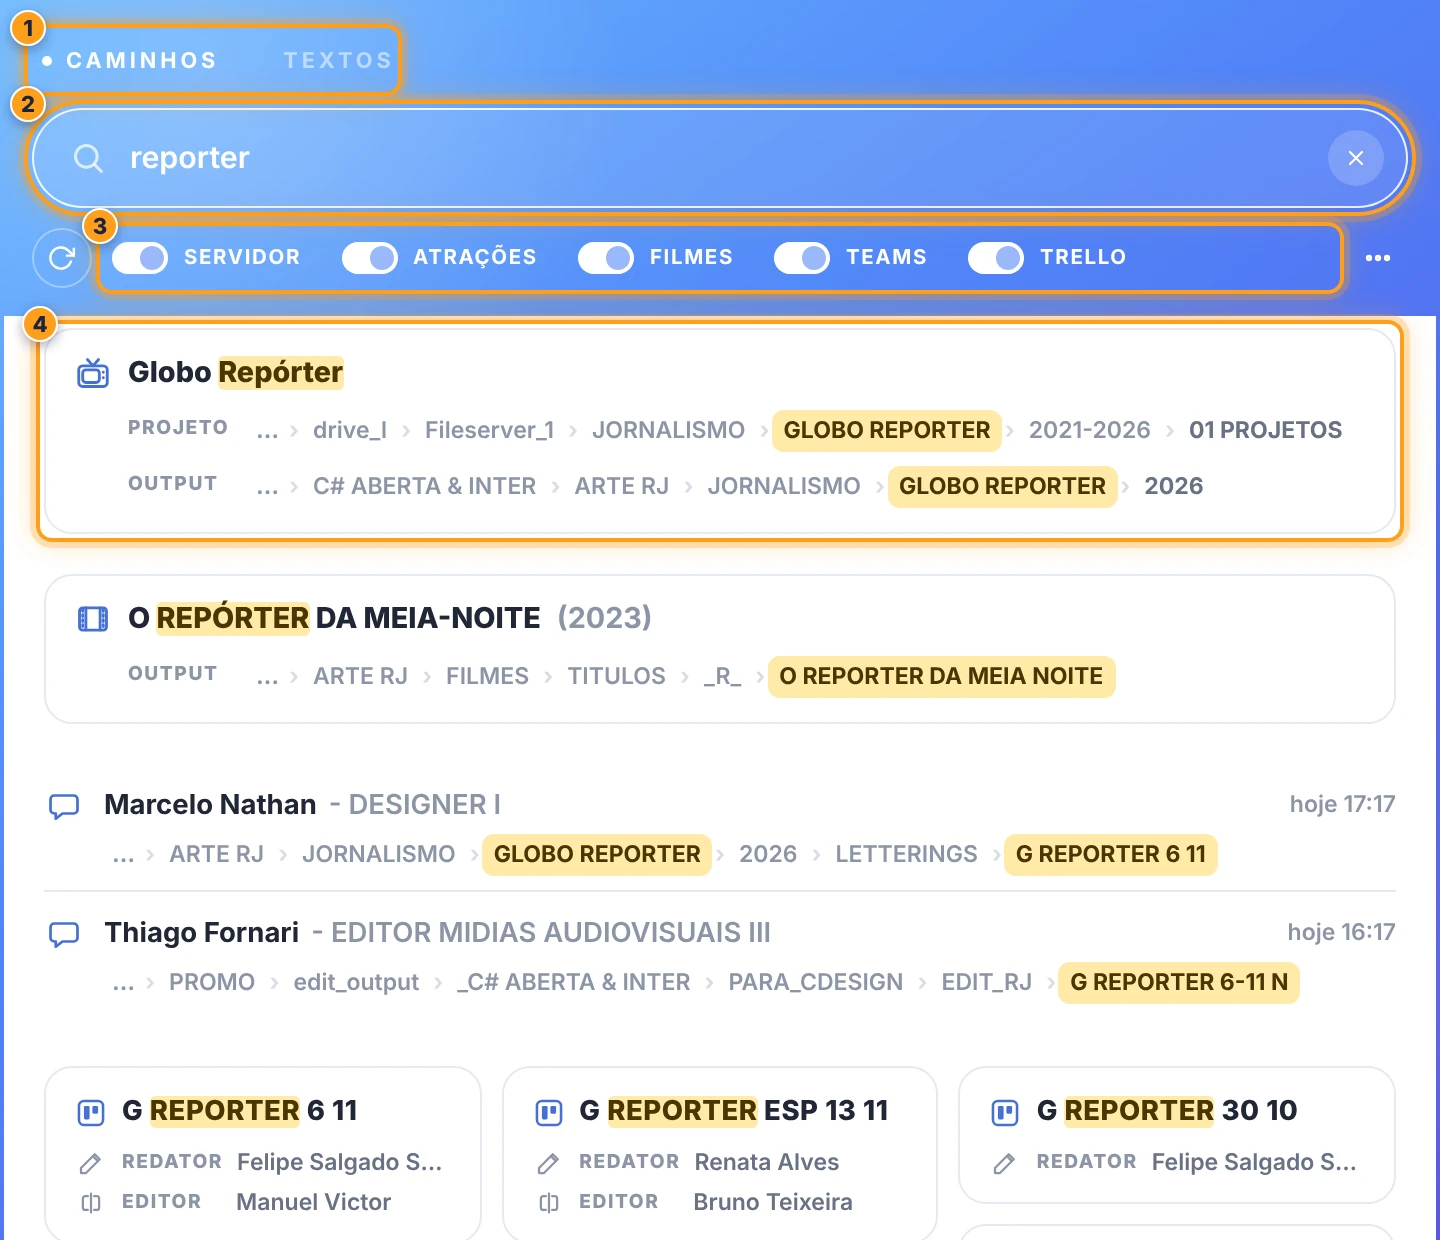
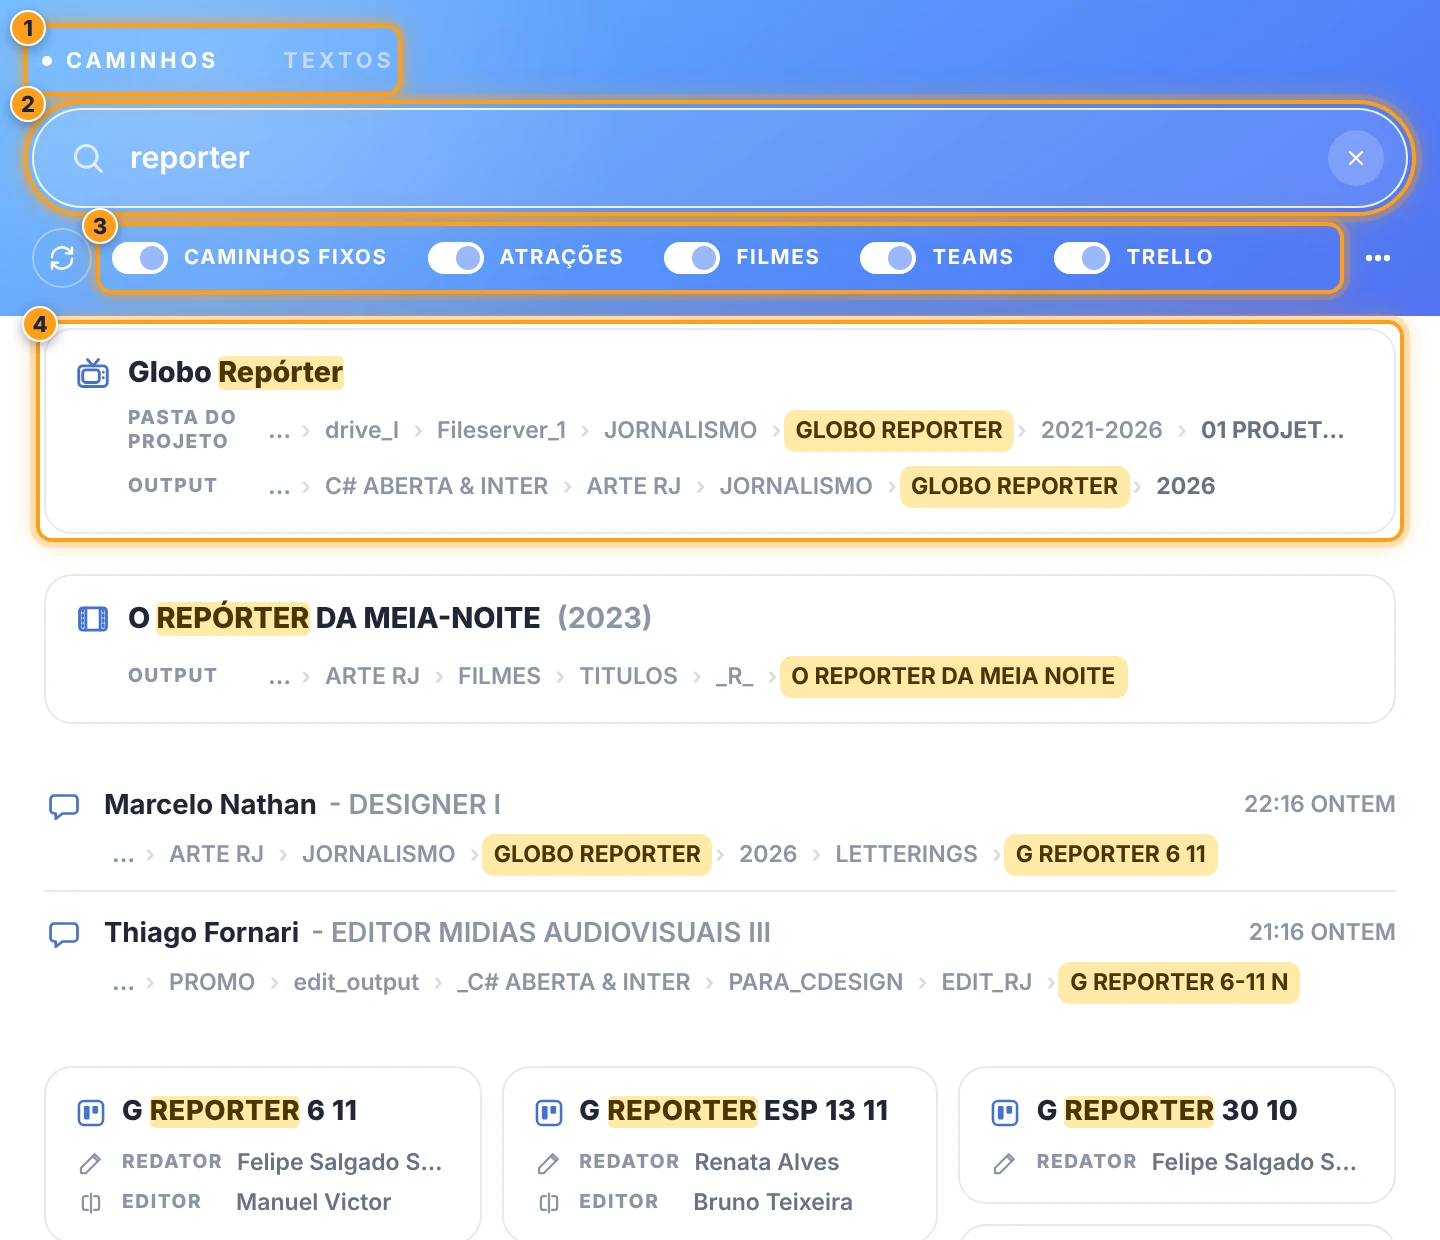
docs: a busca de caminhos como ela é (fontes, caminhos fixos, modo local)
acessorista.md: fontes no lugar de categorias, CAMINHOS FIXOS e PASTA DO
PROJETO, quantos resultados cada fonte mostra (os caminhos fixos, até 10), que
cada pasta do caminho abre aquela pasta, que o índice local também busca
arquivos com "só pastas" desligado e a seção do modo local. producoes.md: a aba
buscar (caminhos fixos, modo local, o índice antigo que saiu) e o modo local da
aba meu usuário. README: a tabela de erros (#PAD_058 e #PAD_086 sem o arquivo de
índice). O exemplo da GNEWS avisa que o índice por arquivo saiu. As imagens do
acessorista refeitas com doc-media.js.

Claude-Session: https://claude.ai/code/session_01DrYHfUyMEmqYvcFyKefNe2

diff --git a/docs/acessorista.md b/docs/acessorista.md
@@ -13,42 +13,46 @@ a janela abre com 720 px de largura (ou mais, se os interruptores precisarem: el
 | | | |
 | :---: | --- | --- |
 | ❶ | **abas** | **caminhos** e **textos** (o mesmo painel). |
-| ❷ | **busca** | atração, claquete, quem mandou, projeto, output ou caminho (a partir de 2 caracteres). |
-| ❸ | **fontes da busca** | liga e desliga cada uma: servidor, atrações, filmes, Teams e Trello. a seta relê o índice. |
-| ❹ | **resultados** | o ícone diz de onde vem; o trecho achado fica marcado. clique para abrir a pasta. |
+| ❷ | **busca** | atração, claquete, quem mandou, pasta do projeto, output ou caminho (a partir de 2 caracteres). |
+| ❸ | **fontes da busca** | liga e desliga cada uma: caminhos fixos, atrações, filmes, Teams e Trello. a seta relê o índice. |
+| ❹ | **resultados** | o ícone diz de onde vem; o trecho achado fica marcado. clique numa pasta do caminho para abri-la. |
 
 
-`◖ clique esquerdo` em **buscar**, na barra. pesquise por atração, claquete, quem mandou, projeto, output ou caminho (a partir de 2 caracteres) e abra as pastas direto no Finder / Explorer.
+`◖ clique esquerdo` em **buscar**, na barra. pesquise por atração, claquete, quem mandou, pasta do projeto, output ou caminho (a partir de 2 caracteres) e abra as pastas direto no Finder / Explorer.
 
-os resultados vêm sem títulos de seção: o ícone de cada item diz de onde ele vem.
+os resultados vêm sem títulos de seção: o ícone de cada item diz de qual **fonte** ele vem. em todos, cada pasta do caminho é um botão: o clique abre **aquela** pasta (a do meio também, não só a última).
 
-| ícone | de onde | o que mostra | o clique |
-| --- | --- | --- | --- |
-| servidor | **servidor** (caminhos fixos) | o nome e a linha **CAMINHO** | — |
-| TV de tubo | **atrações** | o nome e as linhas **PROJETO** e **OUTPUT** | — |
-| película | **filmes** | o título, o ano de produção entre parênteses e a linha **OUTPUT** | — |
-| balão | **Teams** (últimos 30 dias) | quem mandou - cargo, quando (hoje, ontem, o dia da semana até 6 dias atrás ou a data, com a hora) e, embaixo, o caminho da mensagem | o balão abre a mensagem no Teams |
-| quadro do Trello | **Trello** (últimos 15 dias) | cards em grade: a claquete, o redator e o editor | o card abre no Trello |
+| ícone | fonte | o que mostra | até | o clique |
+| --- | --- | --- | :---: | --- |
+| servidor | **caminhos fixos** (as pastas da equipe da [configuração > buscar](producoes.md#-buscar)) | o nome e a linha **CAMINHO** | 10 | cada pasta do caminho abre aquela pasta |
+| TV de tubo | **atrações** | o nome e as linhas **PASTA DO PROJETO** e **OUTPUT** | 20 | cada pasta do caminho abre aquela pasta |
+| película | **filmes** | o título, o ano de produção entre parênteses e a linha **OUTPUT** | 20 | cada pasta do caminho abre aquela pasta |
+| balão | **Teams** (últimos 30 dias) | quem mandou - cargo, quando (hoje, ontem, o dia da semana até 6 dias atrás ou a data, com a hora) e, embaixo, o caminho da mensagem. a busca procura em quem mandou e no caminho (não no texto da mensagem) | 20 | o balão abre a mensagem no Teams; cada pasta do caminho abre aquela pasta |
+| quadro do Trello | **Trello** (últimos 15 dias) | cards em grade: a claquete, o redator e o editor | 24 | o card abre no Trello |
 
 - **como a busca compara** → sem acentos, maiúsculas e pontuação, sempre a partir do começo de uma palavra: '*não*' acha '*NAO APAGAR*', mas não '*an**NA - O***'; '*3/11*' acha '*3/11*' e '*3 11*', mas não '*31/10*'.
 - **apelidos das atrações** → quando o que você digita é o começo do nome ou de um *pattern* de uma atração (com 3 letras ou mais), a busca também procura os outros nomes dela: '*GREP*' ou '*G REP*' trazem também o que tem **GLOBO REPORTER** e **G REPORTER** (mensagens, cards, pastas). em cima dos resultados aparece '*também: Globo Repórter*'.
-- **interruptores** (ao lado do atualizar) → **SERVIDOR**, **ATRAÇÕES**, **FILMES**, **TEAMS** e **TRELLO** (a mesma ordem dos resultados): desligado, a categoria sai da busca (só aparecem as que têm itens). a escolha fica ao atualizar. no índice local não há interruptores: no lugar, de onde vêm os caminhos.
+- **interruptores** (ao lado do atualizar) → um por fonte: **CAMINHOS FIXOS**, **ATRAÇÕES**, **FILMES**, **TEAMS** e **TRELLO** (a mesma ordem dos resultados). desligada, a fonte sai da busca (só aparecem as que têm itens). a escolha fica ao atualizar. no índice local não há interruptores: no lugar, de onde vêm os caminhos.
 - **⋯** → ajuda (esta página) e recarregar o painel.
 - **caminho** → aparece em breadcrumb: clique em qualquer pasta para abri-la. a pasta que contém o termo buscado fica destacada em amarelo. quando o caminho não cabe, as pastas iniciais saem (com '*…*'); a última e a destacada ficam sempre.
-- **atualizar** (o botão redondo, abaixo da busca) → baixa os caminhos de novo (no índice local, indexa as pastas de novo). ao lado dele aparece de onde vêm os caminhos no índice local ('*índice local · 18.430 itens · 09:12 HOJE*') ou o andamento da indexação.
+- **atualizar** (o botão redondo, abaixo da busca) → baixa os caminhos de novo (no índice local, indexa as pastas de novo; no modo local, relê a cópia, sem a rede). ao lado dele aparece de onde vêm os caminhos no índice local ('*índice local · 18.430 itens · 09:12 HOJE*') ou o andamento da indexação.
 
 ### índice local
 
-em vez do webhook, cada computador pode ter o seu **índice local** ([configuração > buscar](producoes.md#-buscar), embaixo, em **neste computador**): as pastas escolhidas e todas as subpastas, lidas pelo painel e guardadas no computador. a busca procura pelo **nome** de cada pasta (ícone de pasta, nome e a linha **CAMINHO**) e mostra também os caminhos fixos do servidor. funciona sem rede.
+em vez do webhook, cada computador pode ter o seu **índice local** ([configuração > buscar](producoes.md#-buscar), embaixo, em **neste computador**): as pastas escolhidas e todas as subpastas, lidas pelo painel e guardadas no computador. a busca procura pelo **nome** de cada pasta (ícone de pasta, nome e a linha **CAMINHO**; até 30) e mostra também os caminhos fixos. com **só pastas** desligado, o índice guarda também os arquivos: eles aparecem com o ícone de arquivo, e a linha **CAMINHO** é a pasta onde o arquivo está. funciona sem rede.
 
 - a última indexação aparece na hora; ela é refeita quando as pastas mudam, uma vez por dia (se ligado) ou no **atualizar**. enquanto indexa, a busca continua com o índice anterior.
 - a janela [PROJETO](projeto.md) procura a claquete pelo nome das pastas: vale a pasta cujo nome é o começo da claquete (*MAIS VOCE* para *MAIS VOCE 30 10*). acerta menos que as atrações do webhook (sem os *patterns*).
 
+### modo local
+
+no [modo local](producoes.md#-meu-usuário) (sem a rede da equipe, ligado à mão ou quando a rede cai), a busca de caminhos **não tenta a rede**: usa na hora a **cópia** do índice salva neste computador (ou o índice local, se for o escolhido). em cima dos resultados aparece de quando é a cópia ('*modo local · cópia do índice de 14:32 28/10*'): os caminhos podem estar desatualizados. sem cópia nenhuma, o painel avisa ('*modo local: sem cópia do índice*'): com a rede, desligue o modo local e clique em atualizar, ou escolha o índice local. a janela [PROJETO](projeto.md) segue a mesma regra.
+
 > 🚩 *obs:*\
-> • os caminhos vêm do workflow **PROMO - BUSCAR**, que já devolve o índice pronto (com as mensagens do Teams mais recentes). o painel baixa sozinho, em segundo plano, sem travar o After Effects: a cópia salva aparece na hora e é trocada quando a resposta chega. sem conexão (ou no modo local), vale a cópia salva. a resposta pode vir como o JSON do índice, como o JSON em texto ou embrulhada pelo n8n (`[{ "indice": "…" }]`): o painel entende as três.\
-> • o endereço do workflow e os caminhos fixos do servidor ficam na [configuração > buscar](producoes.md#-buscar).\
+> • os caminhos vêm do workflow **PROMO - BUSCAR**, que já devolve o índice pronto (com as mensagens do Teams mais recentes). o painel baixa sozinho, em segundo plano, sem travar o After Effects: a cópia salva aparece na hora e é trocada quando a resposta chega. sem conexão, vale a cópia salva (avisando '*usando o último índice salvo*'). a resposta pode vir como o JSON do índice, como o JSON em texto ou embrulhada pelo n8n (`[{ "indice": "…" }]`): o painel entende as três.\
+> • o endereço do workflow e os caminhos fixos ficam na [configuração > buscar](producoes.md#-buscar).\
 > • no macOS, os volumes de rede necessários são montados ao abrir uma pasta. no Windows, os caminhos do Mac (`/Volumes/...`) são convertidos pelo mapa da [configuração > rede](producoes.md#-rede).\
-> • aparecem no máximo 20 itens por categoria (24 cards do Trello): refine o termo para ver os demais.
+> • cada fonte mostra no máximo o número da coluna **até** da tabela: refine o termo para ver os demais.
 
 ### textos
 

diff --git a/docs/producoes.md b/docs/producoes.md
@@ -209,14 +209,14 @@ a aba tem duas colunas: à esquerda, a **árvore do projeto** (no azul); à dire
 a aba **buscar** ajusta a busca de caminhos (**O ACESSORISTA**) e as atrações da janela [PROJETO](projeto.md).
 
 - **webhook** → o endereço do workflow **PROMO - BUSCAR**, que devolve o índice pronto (Teams, Trello, atrações e filmes). vazio, vale o padrão (`…/webhook/buscar`).
-- **servidor · caminhos fixos** → pastas que aparecem sempre na busca, com o ícone de servidor, para todo mundo. cada linha tem um **nome** e um **caminho** (do Mac, `/Volumes/...`, ou da rede do Windows, `\\servidor\share\...`); a pastinha escolhe a pasta, a **lixeira** à direita exclui a linha e os pontinhos reordenam. o servidor e o share saem do próprio caminho (ou do mapa da aba **rede**), e o volume é montado ao abrir.
+- **caminhos fixos** → pastas que aparecem sempre na busca (a fonte **CAMINHOS FIXOS** do acessorista, com o ícone de servidor e até 10 por busca), para todo mundo. cada linha tem um **nome** e um **caminho** (do Mac, `/Volumes/...`, ou da rede do Windows, `\\servidor\share\...`); a pastinha escolhe a pasta, a **lixeira** à direita exclui a linha e os pontinhos reordenam. o servidor e o share saem do próprio caminho (ou do mapa da aba **rede**), e o volume é montado ao abrir.
 
 **👤 de onde vêm os caminhos** (neste computador, embaixo) → o que o [acessorista](acessorista.md) e a janela [PROJETO](projeto.md) usam aqui:
   - **webhook da equipe** → o índice do webhook acima.
   - **índice local** → as pastas da lista (a pastinha escolhe, a **lixeira** à direita exclui), lidas com todas as subpastas e guardadas neste computador. **só pastas** deixa o índice mais leve (sem os arquivos); **atualizar sozinho uma vez por dia** refaz o índice ao abrir a busca. **indexar agora** refaz na hora e mostra a última indexação (quando, quantos itens e o tamanho).
   - uma janela do acessorista ou do projeto já aberta passa a usar a escolha nova quando você volta para ela.
 
-> 🚩 *obs:* o índice antigo (com categorias e arquivo de índice) ficou só para o padeiro legacy.
+> 🚩 *obs:* no [modo local](#-meu-usuário), o webhook não é chamado: o acessorista e a janela PROJETO usam a cópia do índice salva neste computador (ou o índice local). o índice antigo (com as fontes de antes e a escolha de um arquivo de índice) saiu do padeiro.
 <br>
 
 ---
@@ -332,7 +332,7 @@ a aba **meu usuário** (👤 local) guarda o que é seu e não é de nenhuma fer
 - **designer** → o seu nome nos projetos (variável `{usuario}`), ou uma sigla, se preferir. vazio, vale o usuário do sistema, completo. é o mesmo do bonequinho da [janela projeto](projeto.md).
 - **modo local** → trabalhar **sem a rede**. é exatamente o que o padeiro faz sozinho quando a rede cai; ligar à mão só evita que ele tente a rede (bom em casa ou numa VPN lenta).
   - a configuração da equipe vem da **última cópia** guardada neste computador (atualizada sempre que o padeiro lê a configuração com a rede) e fica só para leitura.
-  - só as [produções locais](#-templates) aparecem no painel de templates, e a busca de caminhos usa o **último índice baixado** (ou o índice local).
+  - só as [produções locais](#-templates) aparecem no painel de templates, e a busca de caminhos usa na hora a **cópia do último índice baixado** (ou o índice local), sem tentar a rede e mostrando de quando é a cópia.
   - as atrações novas vão para a [pasta dos projetos](#-projeto) daqui (sem ela, a Área de Trabalho).
   - **todos** os renders da fila vão para o [output local](#-templates) daqui (sem ele, a Área de Trabalho).
   - os logs esperam a volta para a rede (o webhook não é chamado).

diff --git a/docs/exemplos/gnews/README.md b/docs/exemplos/gnews/README.md
@@ -50,6 +50,8 @@ O modo alternativo do script (`projectMode: 1`) também cabe: `---- render ----`
 
 ### Busca de caminhos (SEARCH)
 
+> 🚩 *obs:* o índice por arquivo (`SEARCH.file`, com o `gnews_path_index.json`) saiu do padeiro: hoje a busca de caminhos usa o índice da equipe (o webhook da aba buscar) ou o índice local, e um `SEARCH` neste formato antigo vale como os padrões. esta seção fica como registro do que o arquivo recriava.
+
 O índice tem uma categoria por grupo do `promoSubPath` do script, com uma entrada por retranca (as 3 letras do ID do projeto + o nome), apontando para `PROMO/<grupo>/<retranca>`:
 
 | categoria | retrancas |
@@ -104,11 +106,11 @@ Os volumes dos dois servidores do script: `cdesign` (egcdesign01) e `Arte_Ilha` 
 | pasta do dia (`DIARIOS/RJ/aaaa/mm_MÊS/dd`) | entrada fixa em `DIARIOS/RJ` | **parcial**: o caminho com a data não é calculado |
 | botões de pastas (shortcuts) | categoria PASTAS DA PROMO na busca | equivalente (links aceitam só http/https) |
 | cor do menu claro `#3E50B4` / escuro `#8FF7A7` | uma cor de destaque | **parcial**: a mesma cor nos dois modos |
-| categoria SERVIDOR da busca | — | **sobra**: as pastas fixas da PROMO JB (`#INGEST`, `BASES VALENDO`) sempre aparecem |
+| fonte CAMINHOS FIXOS da busca | — | **sobra**: as pastas fixas da PROMO JB (`#INGEST`, `BASES VALENDO`) sempre aparecem |
 
 Resumindo: **organização de pastas (com as editáveis), barra, busca de caminhos, projeto (ID, nome, retranca, salvar) e collect chegam bem perto**. Ficaram de fora, por serem específicos da GNEWS, a nomenclatura `USR PROMO - ID` das comps, os dados do end page no nome e o modo hard news.
 
 Próximos passos sugeridos:
 
 1. **End pages** no ORGANIZE (pasta própria) e a tag `ignore`.
-2. **Cor por modo** na APARÊNCIA (claro / escuro) e opção de esconder a categoria SERVIDOR.
+2. **Cor por modo** na APARÊNCIA (claro / escuro) e opção de esconder a fonte CAMINHOS FIXOS.

diff --git a/README.md b/README.md
@@ -466,7 +466,7 @@ todo erro do padeiro tem um código `PAD_`, que aparece **no fim** da mensagem (
 | `#PAD_048` | fila de render: nenhum preset de render escolhido |
 | `#PAD_050` | o projeto está vazio |
 | `#PAD_051` a `#PAD_057` | lista de produções: dado inválido, falha ao gravar ou arquivo de importação inválido |
-| `#PAD_058` | não foi possível baixar o índice de caminhos do acessorista |
+| `#PAD_058` | não foi possível carregar o índice da busca (sem rede e sem cópia salva; no modo local, sem cópia) |
 | `#PAD_059` `#PAD_060` `#PAD_069` | busca de textos: a comp ou o layer não existe mais (atualize a busca) |
 | `#PAD_061` | conversor: nenhum caminho informado |
 | `#PAD_064` | a lista de produções compartilhada (na rede) não está acessível |
@@ -485,7 +485,7 @@ todo erro do padeiro tem um código `PAD_`, que aparece **no fim** da mensagem (
 | `#PAD_083` | configuração: nome fixo sem o termo ou sem o nome |
 | `#PAD_084` | configuração: árvore de pastas do organizar inválida (nome vazio ou repetido, pasta pai inexistente, ciclo ou conteúdo em duas pastas) |
 | `#PAD_085` | configuração: comentários de render vazios ou comentário automático fora deles |
-| `#PAD_086` | configuração: endereço do webhook da busca inválido ou arquivo de índice não escolhido |
+| `#PAD_086` | configuração: endereço do webhook da busca inválido, ou caminho fixo sem nome, sem caminho ou repetido |
 | `#PAD_087` | configuração: link sem nome ou com endereço inválido |
 | `#PAD_088` | configuração: cor da aparência inválida (use `#rrggbb`) |
 | `#PAD_089` | configuração > projeto: tipo de projeto sem nome ou sem caminho, repetido, com token desconhecido ou com `{o_que_e}` na pasta do projeto |
